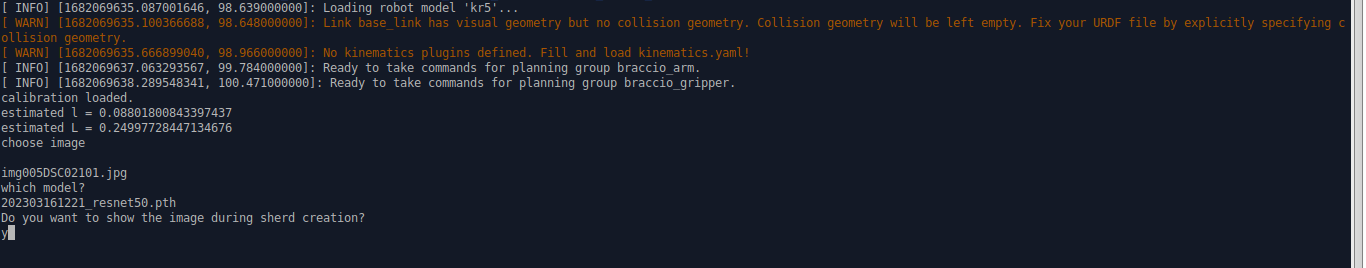
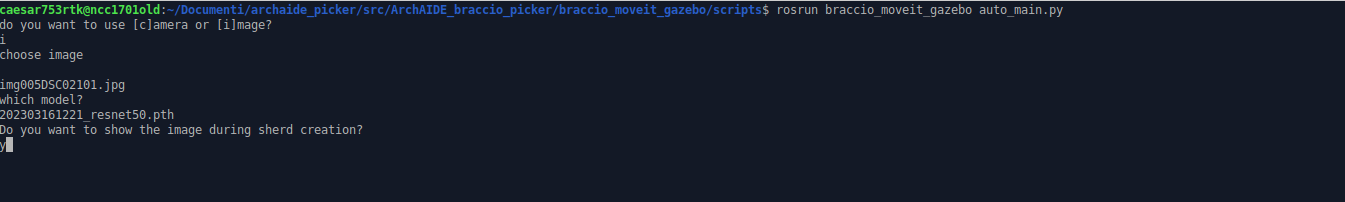
updated README and images

Changed region(s): [[0.0, 0.0, 1.0, 1.0], [0.0, 0.6238, 0.281, 0.7723], [0.0, 0.802, 0.281, 0.8911]]

diff --git a/README.md b/README.md
@@ -1,8 +1,8 @@
-# Braccio Automatic Pick+Drop Simulation with ROS MoveIt and Gazebo
-This is a package forked from [lots-of-things repository](https://github.com/lots-of-things/braccio_moveit_gazebo), updated to Ros noetic and python3.
+# Automatic Recognition of Sherds with ArchAIDE AI and Braccio Pick+Drop Simulation with ROS MoveIt and Gazebo
 
-This is a standalone simulation of a Tinkerkit Braccio arm: in the scene there are the arm and three boxes which (cylindrical bowls) in which will be put the sherds/objects created by the script `auto_main.py`.  
-The script reads and segments an image in which there are some pottery sherds, these are recognized by a trained CNN and each of the is associated to a class with an accuracy metric, this information with the center and the dimension of the sherd are stored and then processed to choose the three most representative classes whose sherds will be picked and put in the bowlas
+This is a standalone simulation of a Tinkerkit Braccio arm based on [lots-of-things repository](https://github.com/lots-of-things/braccio_moveit_gazebo), it runs with ROS Noetic and Python3: in the scene there are the arm and three boxes which (cylindrical bowls) in which will be put the sherds/objects created by the script `auto_main.py`.
+
+The script reads and segments an image which can be stored on PC or can be acquired through a camera (in our development an Intel RealSense D415 Camera) in which there are some pottery sherds, at the bottom is really important to be a 10-cm long meter with a chessboard pattern (tipically used for measurement in archaeological photogrammetry): they are recognized by a trained CNN based on the ArchAIDE project (http://www.archaide.eu/) and each of them is associated to a class with an accuracy metric, this information with the center and the dimension of the sherd are stored and then processed to choose the three most representative classes whose sherds will be picked and put in the bowls.
 
 ## Installation
 
@@ -17,49 +17,57 @@ sudo apt-get install ros-noetic-moveit
 
 ### Download and build source
 ```
-mkdir -p auto_braccio/src
-cd auto_braccio/src
-git clone git@github.com:caesar753/braccio_moveit_gazebo_noetic.git
-git checkout auto
+mkdir -p archaide_braccio_picker/src
+cd archaide_braccio_picker/src
+git@github.com:caesar753/ArchAIDE_braccio_picker.git
 cd ..
-catkin_make
+catkin build
 ```
 
 ## Usage
 
 ### Launch the programs
 
-Start up two bash terminal sessions and navigate to the workspace directory (`auto_braccio` above).
+Start up two bash terminal sessions and navigate to the workspace directory (`archaide_braccio_picker` above).
 
 In the first terminal run the following to bring up the Gazebo simulation.
 ```
 source devel/setup.bash
-roslaunch braccio_moveit_gazebo rviz_connected_with_gz_using_moveit.launch
+roslaunch braccio_moveit_gazebo camera_and_mount_and_braccio.launch
 ```
 
-Gazebo should open with a scene that contains the robot and the items (arm and bowls).  You may need to reposition the display camera to see everything.
+Gazebo should open with a scene that contains the robot, the camera and its mounting and the bowls.  You may need to reposition the display camera to see everything.
 
 ![Gazebo scene](doc/gazebo_open.png)
 
 In the second terminal run this to bring up the command line control interface
 ```
 source devel/setup.bash
-cd src/braccio__moveit_gazebo_noetic/braccio_moveit_gazebo/scripts
+cd src/ArchAIDE_braccio_picker/braccio_moveit_gazebo/scripts
 rosrun braccio_moveit_gazebo auto_main.py
 ```
 
 ### Recognition of image, creation and selection of the sherds
 
-The program will ask you the image to be recognized, the image MUST contatin a chessboard meter of 100mm lenght at the bottom (you can use `img005DSC02101.jpg` which is located in `scripts` folder) and the trained CNN (you can use `202303161221_resnet50.pth` located in the same folder) and if you want to display the image with recognition information (choose `y/n`).
+The program will ask you if you want to use an image stored in the folder or to take an image from a camera attached to the pc, the image MUST contain a chessboard meter of 100mm lenght at the bottom (you can use `img005DSC02101.jpg` which is located in `scripts` folder) and the trained CNN (you can use `202303161221_resnet50.pth` located in the same folder) and if you want to display the image with recognition information (choose `y/n`).
 ![Script scene](doc/image_CNN_choose.png)
 
-After a few seconds some texturized boxes will show on the scene, in the terminal in which you launched the script some information will be displayed (center of sherd in pixels and mm, class).
+After a few seconds some sherd meshes with different colors will show on the scene, the colors are based on the assigned class, in the terminal in which you launched the script some information will be displayed (center of sherd in pixels and mm, class). When all the sherd are created the message with all the information for each sherd is publish on `/targets` topic.
 ![Sherd creation](doc/image_recognition.png)
 ![Sherds created](doc/all_sherds.png)
 
-After sherds creation the arm will move and picks the fragments of the choosen classes, dropping them into the corresponding bowl (each bowl is associated to only one class).
+
+In another terminal you can launch the script which subscribes to the `/targets` message, picks the fragments of the choosen classes and puts them in the assigned bowl.
+
+```
+source devel/setup.bash
+cd src/ArchAIDE_braccio_picker/braccio_moveit_gazebo/scripts
+rosrun braccio_moveit_gazebo targetter_subscriber.py
+```
+
 ![Pick up](doc/pick_up.png)
 ![Drop off](doc/drop_off.png)
+![Drop off2](doc/drop_off_2.png)
 
 This is a short video to illustrate how the arm works
 
@@ -73,6 +81,6 @@ The original lots-of-things repository](https://github.com/lots-of-things/bracci
 
 ## Contact
 
-For bugs, you can file [an issue](https://github.com/caesar753/braccio_moveit_gazebo_noetic/issues) and I'll take a look.
+For bugs, you can file [an issue](https://github.com/caesar753/ArchAIDE_braccio_picker/issues) and I'll take a look.
 
 ## Credits
